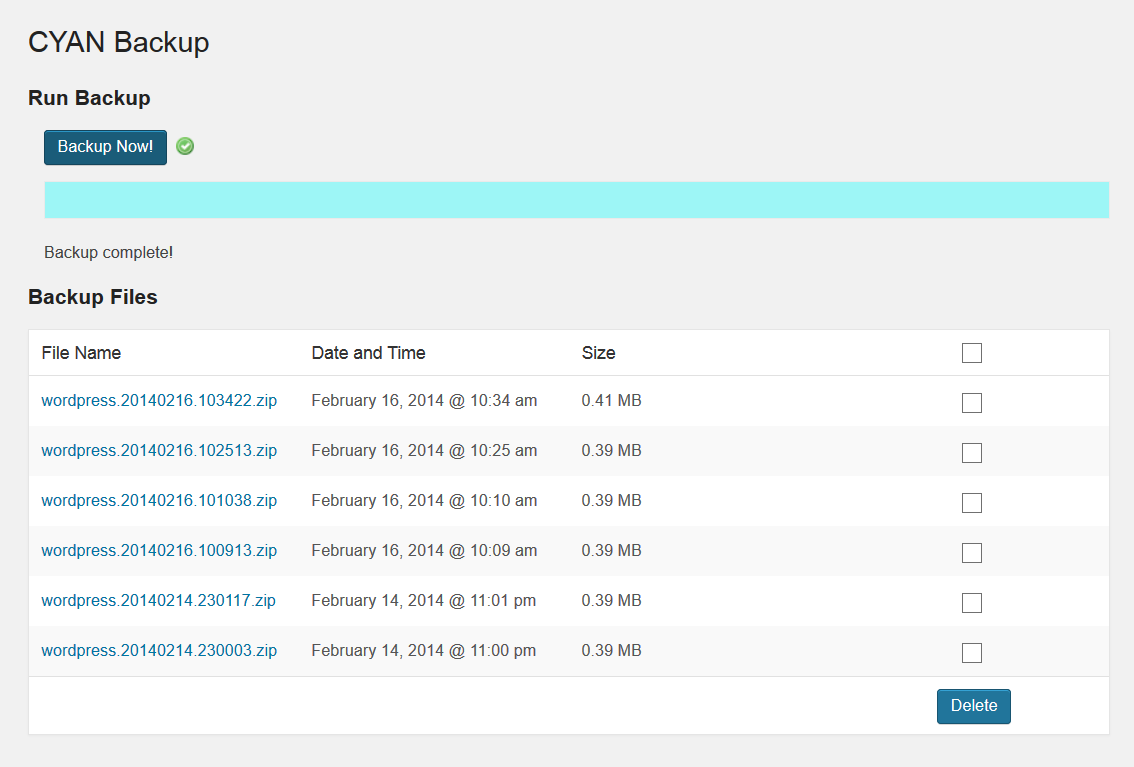
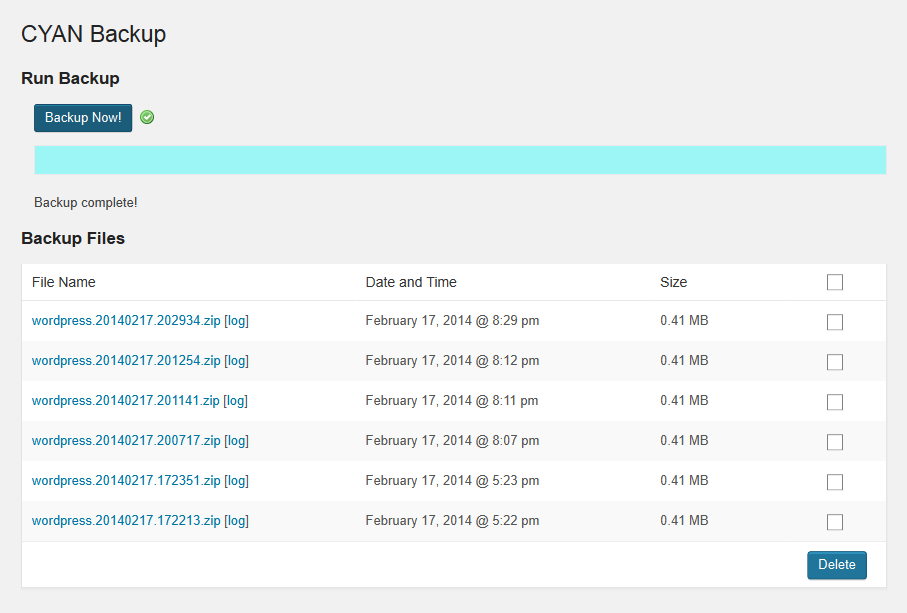
- Added E-Mail notifications. - manual backups now add the log download link to the backup list. - Backup list formatting change for better display on smaller displays. - Updates for 1.3 release.
git-svn-id: https://plugins.svn.wordpress.org/cyan-backup/trunk@859827 b8457f37-d9ea-0310-8a92-e5e31aec5664

diff --git a/includes/class-wp-backuper.php b/includes/class-wp-backuper.php
@@ -22,6 +22,7 @@ class WP_Backuper {
 	private $increment = 0;
 	private $percentage = 0;
 	private $last_percentage = 0;
+	private $email_sendto = null;
 
 	private $error = array();
 
@@ -57,6 +58,10 @@ class WP_Backuper {
 				),
 			$this->get_excluded_dir($excluded)
 			);
+		
+		if( $option['emaillog'] == 'on' ) {
+			$this->email_sendto = $option['sendto'];
+		}
 	}
 
 	//**************************************************************************************
@@ -242,6 +247,30 @@ class WP_Backuper {
 		return substr(wp_hash($i . $action, 'nonce'), -12, 10);
 	}
 
+	private function email_log_file( $addresses, $filename, $status ) {
+		$blogname = get_bloginfo('name');
+		$blogemail = get_bloginfo('admin_email');
+		
+		if( trim($addresses) == '' ) { $addresses = $blogemail; }
+		
+		$headers[] = "From: $blogname <$blogemail>";
+		$headers[] = "MIME-Version: 1.0";
+		$headers[] = "Content-type: text/html; charset=utf-8";
+		
+		$body  = __('Please find attached the backup log file for your reference.') . "\r\n";
+		$body .= "\r\n";
+		
+		if( is_array( $status ) ) {
+			foreach( $status as $key => $value ) {
+				$body .= "\t$key: $value\r\n";
+			}
+		} else {
+			$body .= $status . "\r\n";
+		}
+
+		wp_mail( $addresses, __('CYAN Backup Log', $this->textdomain), $body, $headers, $filename );
+	}
+	
 	//**************************************************************************************
 	// Get the total number of rows in the WordPress tables we're going to backup.
 	//**************************************************************************************
@@ -432,17 +461,23 @@ class WP_Backuper {
 				$this->write_status_file( 100, __('ERROR:', $this->textdomain ) . implode( '<br>', $this->error ), 'error' );
 				$this->write_log_file( __('ERROR:', $this->textdomain ) . implode( ' - ', $this->error ) );
 				$this->statuslogfile = null;
+				
+				$this->close_log_file();
+
+				if( $this->email_sendto !== null ) {	$this->email_log_file( $this->email_sendto, $archive_path . $filename . '.log', $this->error ); }
 				}
 			else
 				{
 				$this->write_status_file( 100, __('Backup complete!', $this->textdomain ), 'complete' );
 				$this->write_log_file( __('Backup complete!', $this->textdomain) );
 				$this->statuslogfile = null;
+
+				$this->close_log_file();
+
+				if( $this->email_sendto !== null ) {	$this->email_log_file( $this->email_sendto, $archive_path . $filename . '.log', __('Backup complete!', $this->textdomain) ); }
 				}
 			
 			unlink( $active_filename );
-			
-			$this->close_log_file();
 			
 			return array(
 				'backup'    => ($backup && file_exists($backup)) ? $this->archive_file : FALSE ,

diff --git a/includes/page-options.php b/includes/page-options.php
@@ -157,6 +157,14 @@
 			$options['excluded'] = $excluded;
 		}
 
+		if( isset( $_POST['emaillog'] ) ) {
+			$options['emaillog'] = $_POST['emaillog'];
+		}
+		
+		if( isset( $_POST['sendto'] ) ) {
+			$options['sendto'] = $_POST['sendto'];
+		}
+
 		if ( isset($_POST['schedule']) ) {
 			if( is_array( $_POST['schedule'] ) ) {
 				$options['schedule'] = $_POST['schedule'];
@@ -414,6 +422,30 @@
 						<input class="button" id="AddWPContentDir" name="AddWPUpgradeDir" type="button" value="<?php _e('Add WP-Upgrade Dir', $this->textdomain);?>" onClick="excluded.value = jQuery.trim( excluded.value ) + '\n<?php echo addslashes( $this->chg_directory_separator( WP_CONTENT_DIR . "/upgrade/", FALSE ) ); ?>';">&nbsp;
 						<input class="button" id="AddWPAdminDir" name="AddWPAdminDir" type="button" value="<?php _e('Add WP-Admin Dir', $this->textdomain);?>" onClick="excluded.value = jQuery.trim( excluded.value ) + '\n<?php echo addslashes( $this->chg_directory_separator($abspath . "wp-admin/", FALSE) ); ?>';">&nbsp;
 						<input class="button" id="AddWPIncludesDir" name="AddWPIncludesDir" type="button" value="<?php _e('Add WP-Includes Dir', $this->textdomain);?>" onClick="excluded.value = jQuery.trim( excluded.value ) + '\n<?php echo addslashes($this->chg_directory_separator($abspath . "wp-includes/", FALSE) )?>';">&nbsp;
+					</td>
+				</tr>
+			</tbody>
+		</table>
+
+		<h3><?php _e('Log Options', $this->textdomain);?></h3>
+
+		<table class="optiontable form-table" style="margin-top:0;">
+			<tbody>
+				<tr>
+					<th><?php _e('E-Mail the log file', $this->textdomain);?></th>
+
+					<td>
+						<input type=checkbox id="emaillog_enabled" name="emaillog"<?php if( $option['emaillog'] == 'on' ) { echo ' CHECKED'; }?>>
+					</td>
+				</tr>
+
+				<tr>
+					<th><?php _e('Send to addresses', $this->textdomain);?></th>
+
+					<td>
+						<input type="input" size="60" id="emaillog_sendto" name="sendto" value="<?php echo $option['sendto'];?>"><br>
+					    <br>
+						<?php _e('This is a comma separated list of e-mail addresses to send the log file to, if blank it will be sent to the WordPress admin user.', $this->textdomain);?>
 					</td>
 				</tr>
 			</tbody>

diff --git a/cyan-backup.php b/cyan-backup.php
@@ -1,7 +1,7 @@
 <?php
 /*
 Plugin Name: CYAN Backup
-Version: 1.2.1
+Version: 1.3
 Plugin URI: http://toolstack.com/cyan-backup
 Description: Backup your entire WordPress site and its database into a zip file on a schedule.
 Author: Greg Ross
@@ -47,7 +47,7 @@ class CYANBackup {
 	const   NONCE_NAME   = '_wpnonce_CYAN_Backup';
 	const   TIME_LIMIT   = 900;			// 15min * 60sec
 	const	DEBUG_MODE   = FALSE;
-	const	VERSION      = "1.2.1";
+	const	VERSION      = "1.3";
 
 	function __construct() {
 		global $wpdb;
@@ -785,9 +785,17 @@ jQuery(function($){
 					var wrap = $('#img_wrap');
 
 					if( json.state == 'complete' ) {
+						var log_name = json.backup_file;
+						var log_file = '';
 						var backup_file = '<a href="?page=<?php echo $this->menu_base; ?>&download=' + encodeURIComponent(json.backup_file) + '<?php echo $nonces_2; ?>' + '" title="' + basename(json.backup_file) + '">' + basename(json.backup_file) + '</a>';
 						var rowCount = $('#backuplist tr').length - 2;
-						var tr = $('<tr><td>' + backup_file + '</td>' +
+						var tr = '';
+
+						log_name = log_name.replace(".zip",".log");
+						
+						log_file = ' [<a href="?page=<?php echo $this->menu_base; ?>&download=' + encodeURIComponent(log_name) + '<?php echo $nonces_2; ?>' + '" title="<?php _e('log', $this->textdomain);?>"><?php _e('log', $this->textdomain);?></a>]';
+							
+						tr = $('<tr><td>' + backup_file + log_file + '</td>' +
 							'<td>' + json.backup_date  + '</td>' +
 							'<td>' + json.backup_size  + '</td>' +
 							'<td style="text-align: center;"><input type="checkbox" name="remove[' + ( rowCount )  + ']" value="<?php echo addslashes($archive_path);?>' + basename(json.backup_file) +'"></td></tr>');

diff --git a/includes/page-backups.php b/includes/page-backups.php
@@ -70,10 +70,10 @@
 
 			<thead>
 				<tr>
-					<th><?php _e('File Name', $this->textdomain);?></th>
-					<th><?php _e('Date and Time', $this->textdomain);?></th>
-					<th><?php _e('Size', $this->textdomain);?></th>
-					<th style="text-align: center;"><input type="checkbox" id="switch_checkboxes" name="switch_checkboxes" style="margin: 0px 4px 0px 0px;" /></th>
+					<th style="width: 40%;"><?php _e('File Name', $this->textdomain);?></th>
+					<th style="width: 35%;"><?php _e('Date and Time', $this->textdomain);?></th>
+					<th style="width: 15%;"><?php _e('Size', $this->textdomain);?></th>
+					<th style="width: 10%;text-align: center;"><input type="checkbox" id="switch_checkboxes" name="switch_checkboxes" style="margin: 0px 4px 0px 0px;" /></th>
 				</tr>
 			</thead>
 
